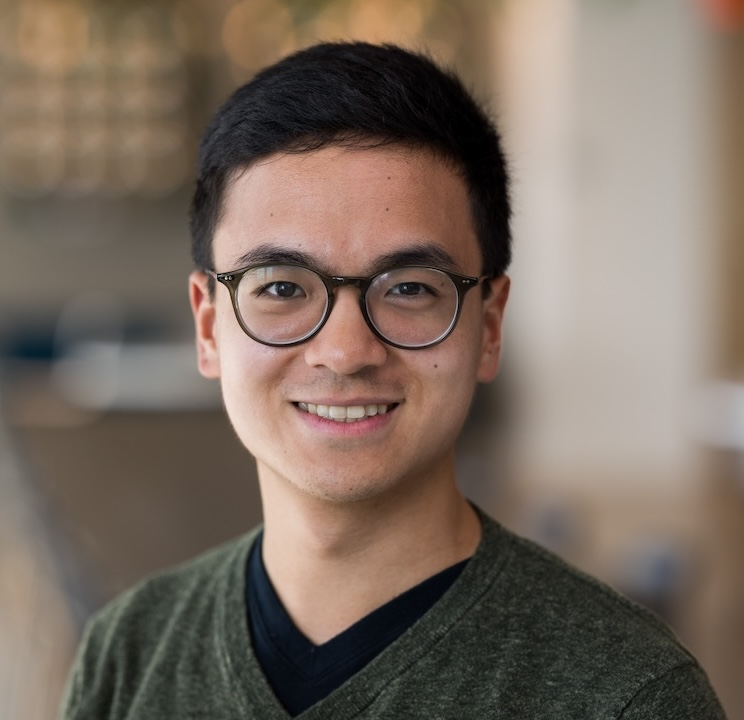
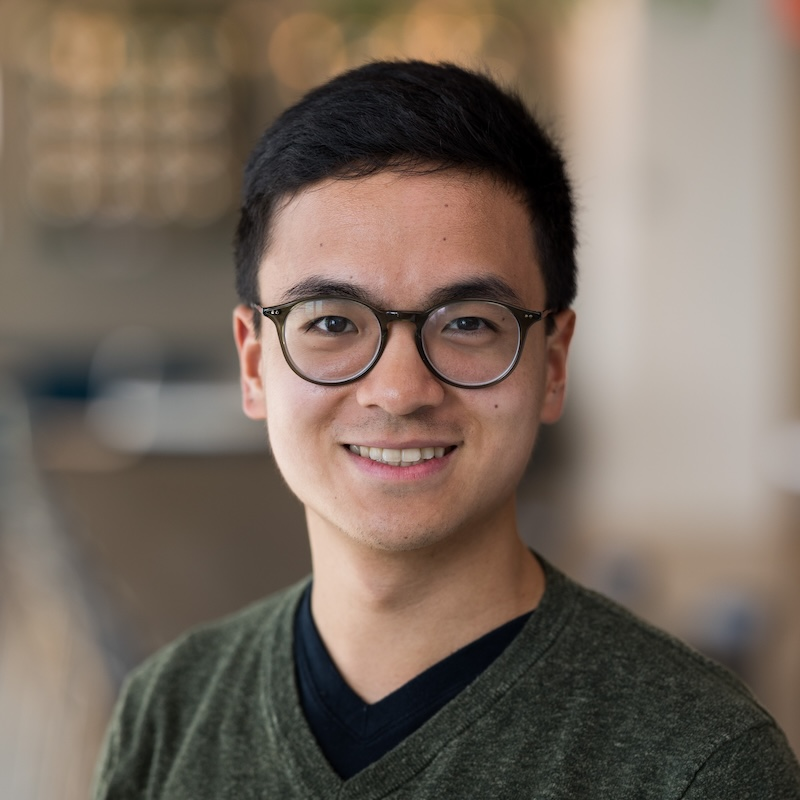
Tweaks
- dedupe team member card
- `object-cover` images
- center my pic lol
- make `Section` title optional

diff --git a/client/src/pages/Team.tsx b/client/src/pages/Team.tsx
@@ -9,6 +9,32 @@ export type Member = {
   link?: string;
 };
 
+function MemberCard({ member }: { member: Member }) {
+  return (
+    <div className="flex flex-col items-center text-center w-1/2 md:w-1/5 mb-4 sm:mb-8">
+      <img
+        src={member.image}
+        alt={member.name}
+        className="sm:w-34 sm:h-34 w-32 h-32 rounded-full border-2 border-purple-400 shadow-lg shadow-purple-400/50 object-cover"
+      />
+      <span className="flex flex-row gap-2 items-center justify-center">
+        <p className="mt-2 font-semibold text-white">{member.name}</p>
+        {member.link && (
+          <a
+            href={member.link}
+            target="_blank"
+            rel="noopener noreferrer"
+            className="mt-2 text-gray-400 hover:text-purple-400"
+          >
+            <Link size={16} />
+          </a>
+        )}
+      </span>
+      <p className="text-sm text-gray-300">{member.role}</p>
+    </div>
+  );
+}
+
 function Team() {
   return (
     <Section
@@ -16,88 +42,15 @@ function Team() {
       title="Board Members"
       className="z-10 relative flex items-center justify-center flex-col"
     >
-
       <div className="flex flex-wrap justify-center sm:mx-0 mx-8 sm:max-w-[1000px]">
-        <div
-          key={PRESIDENT.name}
-          className="flex flex-col items-center text-center w-1/2 md:w-1/5 mb-4 sm:mb-8"
-        >
-          <img
-            src={PRESIDENT.image}
-            alt={PRESIDENT.name}
-            className="sm:w-34 sm:h-34 w-32 h-32 rounded-full border-2 border-purple-400 shadow-lg shadow-purple-400/50"
-          />
-          <span className="flex flex-row gap-2 items-center justify-center">
-            <p className="mt-2 font-semibold text-white">{PRESIDENT.name}</p>
-            {PRESIDENT.link && (
-              <a 
-                href={PRESIDENT.link}
-                target="_blank"
-                rel="noopener noreferrer"
-                className="mt-2 text-gray-400 hover:text-purple-400"
-              >
-                <Link size={16} />
-              </a>
-            )}
-          </span>
-          <p className="text-sm text-gray-300">{PRESIDENT.role}</p>
-        </div>
-        <div className="w-full"></div>
-
+        <MemberCard member={PRESIDENT} />
+        <div className="w-full" />
         {VPMEMBERS.map((m) => (
-          <div
-            key={m.name}
-            className="flex flex-col items-center text-center w-1/2 md:w-1/5 mb-4 sm:mb-4"
-          >
-            <img
-              src={m.image}
-              alt={m.name}
-              className="sm:w-34 sm:h-34 w-32 h-32 rounded-full border-2 border-purple-400 shadow-lg shadow-purple-400/50"
-            />
-            <span className="flex flex-row gap-2 items-center justify-center">
-              <p className="mt-2 font-semibold text-white">{m.name}</p>
-              {m.link && (
-                <a
-                  href={m.link}
-                  target="_blank"
-                  rel="noopener noreferrer"
-                  className="mt-2 text-gray-400 hover:text-purple-400"
-                >
-                  <Link size={16} />
-                </a>
-              )}
-            </span>
-            <p className="text-sm text-gray-300">{m.role}</p>
-          </div>
+          <MemberCard key={m.name} member={m} />
         ))}
-
-        <div className="w-full"></div>
-
+        <div className="w-full" />
         {MEMBERS.map((m) => (
-          <div
-            key={m.name}
-            className="flex flex-col items-center text-center w-1/2 md:w-1/5 mb-4 sm:mb-8"
-          >
-            <img
-              src={m.image}
-              alt={m.name}
-              className="sm:w-34 sm:h-34 w-32 h-32 rounded-full border-2 border-purple-400 shadow-lg shadow-purple-400/50"
-            />
-            <span className="flex flex-row gap-2 items-center justify-center">
-              <p className="mt-2 font-semibold text-white">{m.name}</p>
-              {m.link && (
-                <a
-                  href={m.link}
-                  target="_blank"
-                  rel="noopener noreferrer"
-                  className="mt-2 text-gray-400 hover:text-purple-400"
-                >
-                  <Link size={16} />
-                </a>
-              )}
-            </span>
-            <p className="text-sm text-gray-300">{m.role}</p>
-          </div>
+          <MemberCard key={m.name} member={m} />
         ))}
       </div>
     </Section>

diff --git a/client/src/components/section.tsx b/client/src/components/section.tsx
@@ -3,21 +3,29 @@ import type { ReactNode } from "react";
 
 interface SectionProps {
   id?: string;
-  title: string;
+  title?: string;
   children?: ReactNode;
   className?: string;
   titleFont?: "lato" | "krona";
 }
 
-function Section({ id, title, children, className = "", titleFont = "lato" }: SectionProps) {
+function Section({
+  id,
+  title,
+  children,
+  className = "",
+  titleFont = "lato",
+}: SectionProps) {
   return (
     <section className={`w-screen min-h-screen ${className}`} id={id}>
-      <Text
-        font={titleFont}
-        className="font-bold sm:text-[36px] text-[28px] sm:mb-10 mb-8 text-center"
-      >
-        {title}
-      </Text>
+      {title && (
+        <Text
+          font={titleFont}
+          className="font-bold sm:text-[36px] text-[28px] sm:mb-10 mb-8 text-center"
+        >
+          {title}
+        </Text>
+      )}
       {children}
     </section>
   );

diff --git a/client/src/pages/Join.tsx b/client/src/pages/Join.tsx
@@ -18,7 +18,7 @@ function Join() {
         className="hidden md:block absolute -top-36 right-0 h-[116vh] w-auto"
       />
 
-      <Section id="join" title="" className="text-white py-16 font-lato">
+      <Section id="join" className="text-white py-16 font-lato">
         <div className="max-w-6xl mx-auto grid grid-cols-1 md:grid-cols-[2fr_3fr] gap-12 px-6">
           <div className="relative flex flex-col items-center text-center space-y-6 md:pr-8 md:border-r-2 md:border-white">
             <h2 className="text-4xl font-bold mb-4">Join Us</h2>
